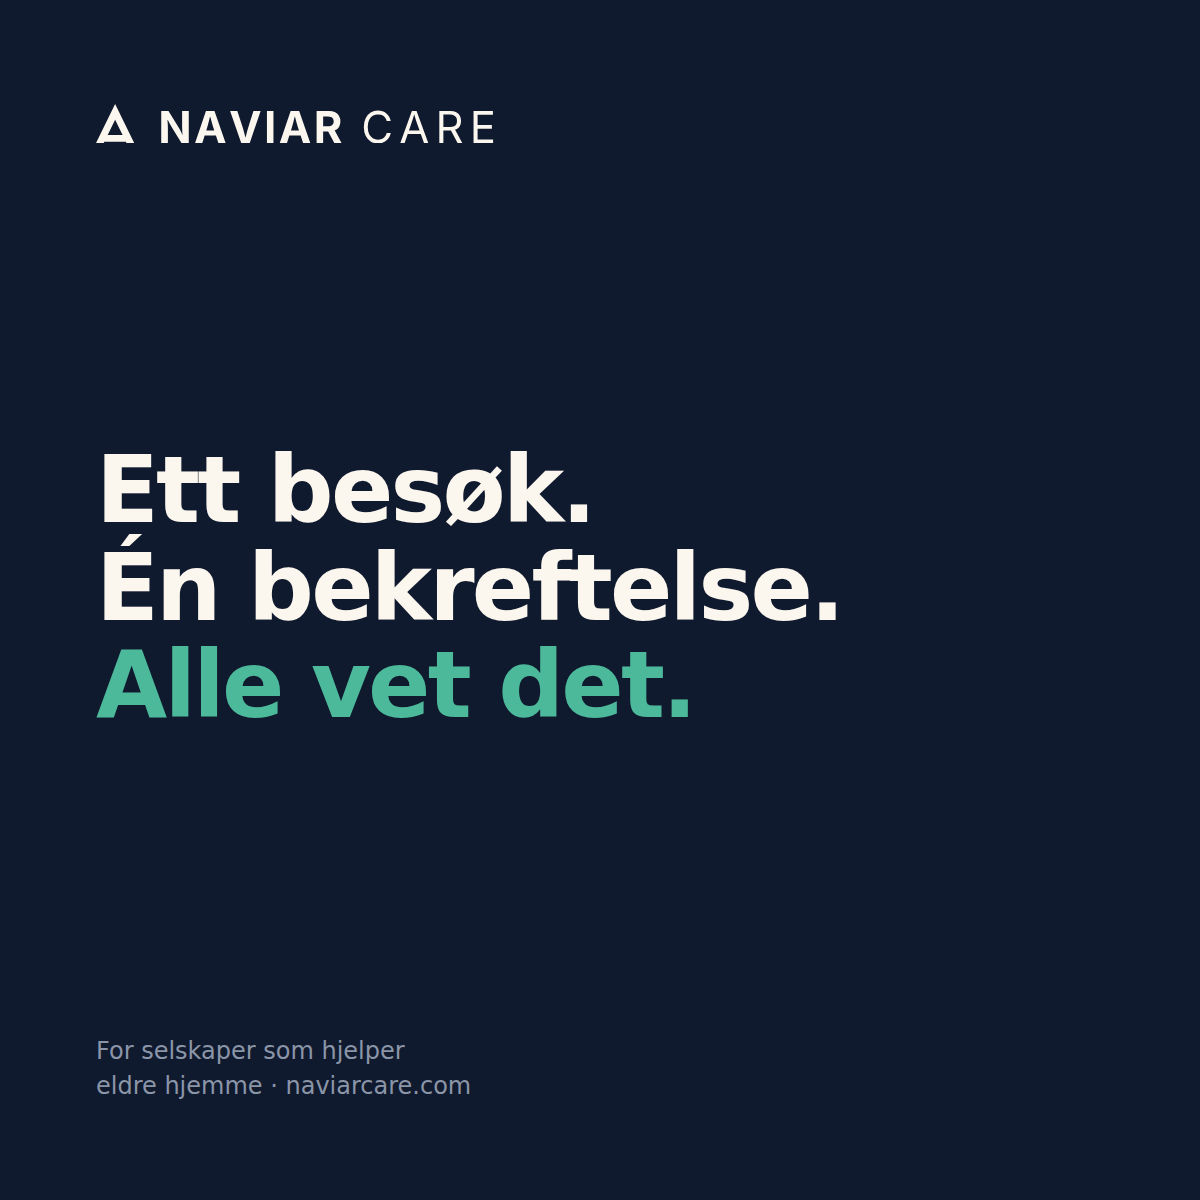
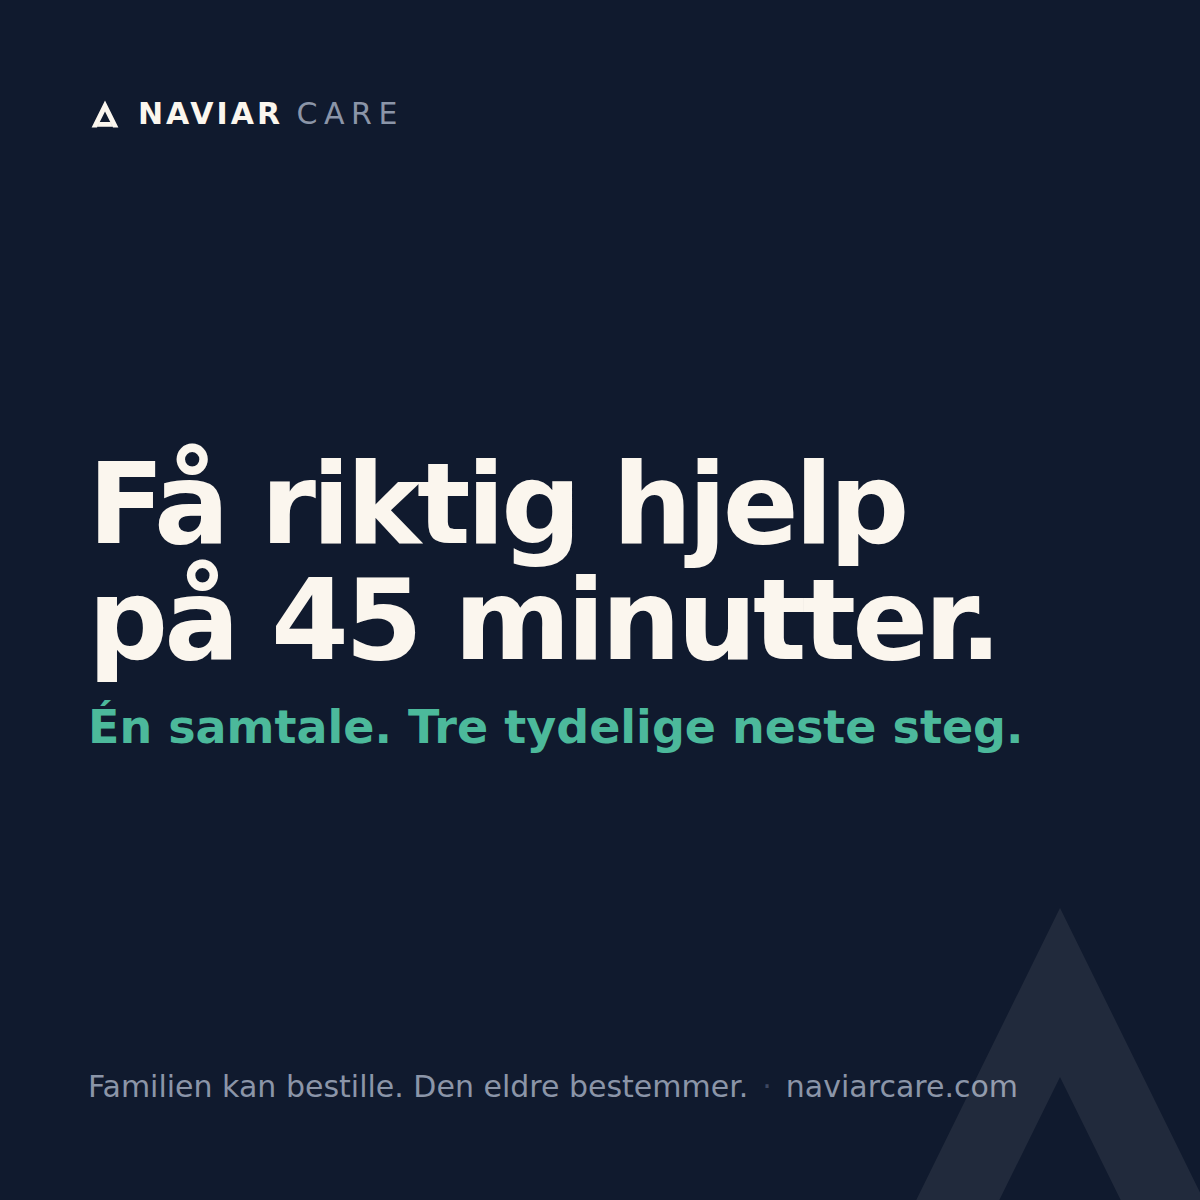
Delingsbilder som ikke kan si noe annet enn produktet
De gamle delingsbildene sa «Ett besøk. Én bekreftelse. Alle vet det.» og
«For selskaper som hjelper eldre hjemme». Begge deler er fra modellen før
denne: den gang solgte vi programvare til tjenesteleverandører. Nå selger
vi Klarhet til familier.

Ingen hadde oppdaget det, og grunnen er verdt å skrive ned: ingen av sidene
hadde og:-merkelapper i det hele tatt. Bildene lå der, men ble aldri
referert. De var døde filer med feil budskap – den kombinasjonen som er
vanskeligst å få øye på.

Nå tegnes de av verktoy/lag-og.js, og ordene hentes fra PP_KLARHET i stedet
for å stå i skriptet. Endres løftet, endres bildet med én kommando.
Nettleser og ikke bildeprogram, av samme grunn som filmen: ekte Inter, og
farger fra de samme tokenene som siden. Skriptet venter på at skrifta er
lastet – uten det settes teksten i en reservefont og ser ut som en annen
merkevare.

To sider har fått merkelappene: forsiden og klarhet.html.

godkjenn.html har dem ikke, og det er et valg. Den lenka sendes på SMS til
én person. Med et delingsbilde ville meldingsappen hentet ned og vist «Vil
du snakke med Kari Hansen?» som forhåndsvisning – navnet på den eldre og
navnet på fagpersonen, til hvem enn som ser skjermen, og til tjenesten som
lager forhåndsvisningen. Et samtykke skal ikke ha en forhåndsvisning. En
test holder den fri for dem.

288 enhetstester, 142 nettlesertester.

diff --git a/verktoy/og.html b/verktoy/og.html
@@ -1,0 +1,85 @@
+<!doctype html>
+<html lang="nb">
+<head>
+<meta charset="utf-8">
+<title>Naviar – delingsbilder</title>
+<link rel="preconnect" href="https://fonts.googleapis.com">
+<link rel="preconnect" href="https://fonts.gstatic.com" crossorigin>
+<link href="https://fonts.googleapis.com/css2?family=Inter:wght@400;500;600;700&display=swap" rel="stylesheet">
+<style>
+  /* Delingsbildene tegnes her og ikke i et bildeprogram, av samme grunn som
+     filmen: teksten skal settes i den ekte Inter, fargene skal komme fra de
+     samme tokenene som siden, og resultatet skal bli likt hver gang.
+
+     Ordene hentes fra PP_KLARHET, ikke skrevet inn her. Et delingsbilde som
+     sier noe annet enn produktet, er det siste noen oppdager – det vises jo
+     bare utenfor sida. */
+  :root{
+    --ink:#101a2e; --sand:#fbf6ee; --brand-pa-mork:#4cb99b; --damp:#8b95a8;
+  }
+  *{box-sizing:border-box;margin:0;padding:0}
+  body{background:#333;font-family:Inter,"Segoe UI",system-ui,sans-serif;
+       -webkit-font-smoothing:antialiased}
+
+  .flate{position:relative;background:var(--ink);color:var(--sand);
+         display:flex;flex-direction:column;justify-content:space-between;
+         overflow:hidden}
+  .flate[data-format="og"]     {width:1200px;height:630px;padding:64px 72px}
+  .flate[data-format="twitter"]{width:1200px;height:675px;padding:70px 72px}
+  .flate[data-format="kvadrat"]{width:1200px;height:1200px;padding:96px 88px}
+
+  .merke{display:flex;align-items:center;gap:16px}
+  .merke svg{color:var(--sand)}
+  .ordmerke{font-size:30px;font-weight:700;letter-spacing:.1em}
+  .ordmerke span{font-weight:400;letter-spacing:.22em;color:var(--damp)}
+
+  .midt{display:flex;flex-direction:column;gap:22px}
+  h1{font-weight:700;letter-spacing:-.035em;line-height:1.04}
+  .flate[data-format="og"] h1     {font-size:86px;max-width:15ch}
+  .flate[data-format="twitter"] h1{font-size:90px;max-width:15ch}
+  .flate[data-format="kvadrat"] h1{font-size:112px;max-width:12ch}
+  .under{color:var(--brand-pa-mork);font-weight:600}
+  .flate[data-format="og"] .under     {font-size:34px}
+  .flate[data-format="twitter"] .under{font-size:36px}
+  .flate[data-format="kvadrat"] .under{font-size:46px}
+
+  .bunn{display:flex;align-items:baseline;gap:14px;color:var(--damp)}
+  .flate[data-format="og"] .bunn     {font-size:22px}
+  .flate[data-format="twitter"] .bunn{font-size:23px}
+  .flate[data-format="kvadrat"] .bunn{font-size:30px}
+  .prikk{color:#3d4761}
+
+  /* Varden i stort format, svakt nedfelt i flata. Den er merket, ikke et
+     dekorelement – derfor samme form som faviconet, bare skalert. */
+  .vakt{position:absolute;right:-90px;bottom:-140px;opacity:.07;
+        color:var(--sand);pointer-events:none}
+  .flate[data-format="kvadrat"] .vakt{right:-120px;bottom:-180px}
+</style>
+</head>
+<body>
+<div id="scene"></div>
+<script>
+var MERKE = '<svg viewBox="0 0 32 32" width="34" height="34" fill="currentColor">' +
+  '<path fill-rule="evenodd" d="M16 3.2 3.4 28.8h5.1L16 13.6l7.5 15.2h5.1L16 3.2ZM11.1 23.6h9.8l2.2 4.4H8.9l2.2-4.4Z"/></svg>';
+var VAKT = '<svg viewBox="0 0 32 32" width="520" height="520" fill="currentColor">' +
+  '<path fill-rule="evenodd" d="M16 3.2 3.4 28.8h5.1L16 13.6l7.5 15.2h5.1L16 3.2ZM11.1 23.6h9.8l2.2 4.4H8.9l2.2-4.4Z"/></svg>';
+
+window.tegn = function (format, tekst) {
+  var t = tekst || {};
+  document.getElementById('scene').innerHTML =
+    '<div class="flate" data-format="' + format + '">' +
+      '<div class="merke">' + MERKE +
+        '<span class="ordmerke">NAVIAR <span>CARE</span></span></div>' +
+      '<div class="midt">' +
+        '<h1>' + t.tittel + '</h1>' +
+        '<p class="under">' + t.under + '</p>' +
+      '</div>' +
+      '<div class="bunn"><span>' + t.bunn + '</span>' +
+        '<span class="prikk">·</span><span>' + t.adresse + '</span></div>' +
+      '<div class="vakt">' + VAKT + '</div>' +
+    '</div>';
+  document.documentElement.dataset.klar = '1';
+};
+</script>
+</body>
+</html>

diff --git a/verktoy/lag-og.js b/verktoy/lag-og.js
@@ -1,0 +1,64 @@
+/* Tegner delingsbildene. Kjøres for hånd:  node verktoy/lag-og.js
+   Playwright hentes fra global sti, som i tests/e2e.test.js – prosjektet har
+   fortsatt ingen avhengigheter i det som sendes til nettleseren.
+
+   Ordene hentes fra PP_KLARHET og PP_MERKESPRAK, ikke skrevet inn her. Et
+   delingsbilde som sier noe annet enn produktet, er det siste noen oppdager:
+   det vises jo bare utenfor sida. Da er det bedre at det ikke kan skje. */
+
+const { chromium } = require('/opt/node22/lib/node_modules/playwright');
+const path = require('path');
+
+global.window = global;
+require('../assets/js/besok-vern.js');
+require('../assets/js/sprak-ui.js');
+require('../assets/js/ekspertbistand.js');
+require('../assets/js/klarhet.js');
+
+const K = global.PP_KLARHET;
+
+/* Adressen står ett sted. Endres domenet, endres det her. */
+const ADRESSE = 'naviarcare.com';
+
+const TEKST = {
+  tittel: K.NAVN.lofte,          // «Få riktig hjelp på 45 minutter.»
+  under: K.NAVN.slagord,         // «Én samtale. Tre tydelige neste steg.»
+  bunn: K.NAVN.altmelding,       // «Familien kan bestille. Den eldre bestemmer.»
+  adresse: ADRESSE
+};
+
+const FORMATER = [
+  { id: 'og',      fil: 'naviar-og.png',         bredde: 1200, hoyde: 630 },
+  { id: 'twitter', fil: 'naviar-twitter.png',    bredde: 1200, hoyde: 675 },
+  { id: 'kvadrat', fil: 'naviar-og-kvadrat.png', bredde: 1200, hoyde: 1200 }
+];
+
+(async () => {
+  const nettleser = await chromium.launch();
+  const side = await nettleser.newPage({ deviceScaleFactor: 1 });
+
+  const feil = [];
+  side.on('pageerror', e => feil.push(e.message));
+
+  await side.goto('file://' + path.resolve(__dirname, 'og.html'),
+                  { waitUntil: 'domcontentloaded' });
+
+  /* Google Fonts må rekke å laste, ellers settes teksten i en reservefont og
+     bildet ser ut som en annen merkevare. Vi venter på skrifta, ikke på tid. */
+  await side.waitForFunction(() => document.fonts.check('700 86px Inter'),
+                             null, { timeout: 20000 });
+
+  for (const f of FORMATER) {
+    await side.setViewportSize({ width: f.bredde, height: f.hoyde });
+    await side.evaluate(([id, tekst]) => window.tegn(id, tekst), [f.id, TEKST]);
+    const mal = path.resolve(__dirname, '../assets/img/', f.fil);
+    await side.locator('.flate').screenshot({ path: mal });
+    console.log(f.fil.padEnd(26), f.bredde + '×' + f.hoyde);
+  }
+
+  if (feil.length) {
+    console.error('Feil under tegning:', feil);
+    process.exitCode = 1;
+  }
+  await nettleser.close();
+})();

diff --git a/tests/e2e.test.js b/tests/e2e.test.js
@@ -1111,6 +1111,60 @@ if (!pw) {
 
   await go.close();
 
+  t.gruppe('Delingsbilder');
+
+  var og = await nySide();
+  await og.goto(BASE + 'klarhet.html', { waitUntil: 'domcontentloaded' });
+  var ogData = await og.evaluate(function () {
+    function m(sel) { var n = document.querySelector(sel); return n ? n.content : null; }
+    return {
+      bilde: m('meta[property="og:image"]'),
+      twitter: m('meta[name="twitter:image"]'),
+      alt: m('meta[property="og:image:alt"]'),
+      kort: m('meta[name="twitter:card"]'),
+      tittel: m('meta[property="og:title"]')
+    };
+  });
+
+  t.test('klarhet.html har delingsbilde med alternativ tekst', function () {
+    t.erSann(/^https:\/\//.test(ogData.bilde), 'må være absolutt: ' + ogData.bilde);
+    t.erSann(/^https:\/\//.test(ogData.twitter));
+    t.erSann(ogData.alt && ogData.alt.length > 20, 'alt-tekst mangler');
+    t.erLik(ogData.kort, 'summary_large_image');
+  });
+
+  /* Bildefilene må finnes. Et og:image som peker på ingenting, vises som en
+     tom flate i meldingsappen – og ingen oppdager det, fordi det bare skjer
+     utenfor sida. */
+  /* fetch og ikke goto: en nettleser som navigerer til en PNG, starter en
+     nedlasting i stedet for a vise den, og testkjoringen stopper. */
+  var ogFiler = await og.evaluate(async function () {
+    var ut = {};
+    for (var f of ['naviar-og.png', 'naviar-twitter.png', 'naviar-og-kvadrat.png']) {
+      try {
+        var r = await fetch('assets/img/' + f, { method: 'HEAD' });
+        ut[f] = r.status;
+      } catch (e) { ut[f] = 0; }
+    }
+    return ut;
+  });
+
+  Object.keys(ogFiler).forEach(function (fil) {
+    t.test(fil + ' finnes', function () { t.erLik(ogFiler[fil], 200); });
+  });
+
+  /* Samtykkeskjermen skal ikke ha forhåndsvisning. Lenka sendes på SMS til én
+     person, og et delingsbilde ville vist navnet hennes til meldingsappen. */
+  await og.goto(BASE + 'godkjenn.html', { waitUntil: 'domcontentloaded' });
+  var utenOg = await og.evaluate(function () {
+    return document.querySelectorAll('meta[property^="og:"], meta[name^="twitter:"]').length;
+  });
+  t.test('samtykkeskjermen har ingen forhåndsvisning', function () {
+    t.erLik(utenOg, 0, 'et samtykke skal ikke ha delingsbilde');
+  });
+
+  await og.close();
+
   t.gruppe('Ingen JavaScript-feil');
   t.test('konsollen er ren på alle sider', function () {
     t.erLik(jsFeil, [], 'feil funnet');

diff --git a/klarhet.html b/klarhet.html
@@ -6,6 +6,23 @@
 <title>Naviar Klarhet – én samtale, tre tydelige neste steg</title>
 <meta name="description" content="Snakk med en verifisert fagperson i 45 minutter og få tre tydelige neste steg. Fast pris 599 kr. Ikke akutt hjelp eller medisinsk rådgivning.">
 <meta name="robots" content="noindex, nofollow">
+<!-- Delingsbilde. Absolutt URL, fordi et delingsbilde hentes av en annen
+     tjeneste enn den som viser sida. -->
+<meta property="og:type" content="website">
+<meta property="og:site_name" content="Naviar Care">
+<meta property="og:locale" content="nb_NO">
+<meta property="og:url" content="https://naviarcare.com/klarhet.html">
+<meta property="og:title" content="Naviar Klarhet – én samtale, tre tydelige neste steg">
+<meta property="og:description" content="Snakk med en verifisert fagperson i 45 minutter og få tre tydelige neste steg. Fast pris 599 kr. Ikke akutt hjelp eller medisinsk rådgivning.">
+<meta property="og:image" content="https://naviarcare.com/assets/img/naviar-og.png">
+<meta property="og:image:width" content="1200">
+<meta property="og:image:height" content="630">
+<meta property="og:image:alt" content="Naviar Care. Få riktig hjelp på 45 minutter. Én samtale, tre tydelige neste steg.">
+<meta name="twitter:card" content="summary_large_image">
+<meta name="twitter:title" content="Naviar Klarhet – én samtale, tre tydelige neste steg">
+<meta name="twitter:description" content="Snakk med en verifisert fagperson i 45 minutter og få tre tydelige neste steg. Fast pris 599 kr. Ikke akutt hjelp eller medisinsk rådgivning.">
+<meta name="twitter:image" content="https://naviarcare.com/assets/img/naviar-twitter.png">
+<meta name="twitter:image:alt" content="Naviar Care. Få riktig hjelp på 45 minutter.">
 <link rel="preconnect" href="https://fonts.googleapis.com">
 <link rel="preconnect" href="https://fonts.gstatic.com" crossorigin>
 <link href="https://fonts.googleapis.com/css2?family=Inter:wght@400;500;600;700&display=swap" rel="stylesheet">

diff --git a/index.html b/index.html
@@ -5,6 +5,23 @@
 <meta name="viewport" content="width=device-width, initial-scale=1">
 <title>Naviar – hjelp i nabolaget for eldre som vil bo hjemme</title>
 <meta name="description" content="Naviar kobler eldre som vil bo hjemme, og familier som bor et annet sted, med verifiserte hjelpere i nabolaget. Be om hjelp, følg oppdraget, eller ta oppdrag selv.">
+<!-- Delingsbilde. Absolutt URL, fordi et delingsbilde hentes av en annen
+     tjeneste enn den som viser sida. -->
+<meta property="og:type" content="website">
+<meta property="og:site_name" content="Naviar Care">
+<meta property="og:locale" content="nb_NO">
+<meta property="og:url" content="https://naviarcare.com/">
+<meta property="og:title" content="Naviar Care">
+<meta property="og:description" content="Trygg hjelp i hverdagen – på den eldres premisser. Praktisk hverdagshjelp og samtaler med erfarne fagfolk.">
+<meta property="og:image" content="https://naviarcare.com/assets/img/naviar-og.png">
+<meta property="og:image:width" content="1200">
+<meta property="og:image:height" content="630">
+<meta property="og:image:alt" content="Naviar Care. Få riktig hjelp på 45 minutter. Én samtale, tre tydelige neste steg.">
+<meta name="twitter:card" content="summary_large_image">
+<meta name="twitter:title" content="Naviar Care">
+<meta name="twitter:description" content="Trygg hjelp i hverdagen – på den eldres premisser. Praktisk hverdagshjelp og samtaler med erfarne fagfolk.">
+<meta name="twitter:image" content="https://naviarcare.com/assets/img/naviar-twitter.png">
+<meta name="twitter:image:alt" content="Naviar Care. Få riktig hjelp på 45 minutter.">
 <link rel="preconnect" href="https://fonts.googleapis.com">
 <link rel="preconnect" href="https://fonts.gstatic.com" crossorigin>
 <link href="https://fonts.googleapis.com/css2?family=Inter:wght@400;500;600;700&display=swap" rel="stylesheet">

diff --git a/godkjenn.html b/godkjenn.html
@@ -6,6 +6,14 @@
 <title>Vil du snakke med Kari Hansen? – Naviar Care</title>
 <meta name="description" content="Familien har funnet en tid. Du bestemmer om den skal bli noe av.">
 <meta name="robots" content="noindex, nofollow">
+<!-- Ingen og:-merkelapper her, og det er et valg.
+
+     Denne lenka sendes på SMS til én person. Får den et delingsbilde, henter
+     meldingsappen det ned og viser «Vil du snakke med Kari Hansen?» som
+     forhåndsvisning – med navnet på den eldre og navnet på fagpersonen, til
+     hvem enn som ser skjermen, og til den tjenesten som lager forhåndsvisningen.
+
+     Et samtykke er ikke noe som skal ha en forhåndsvisning. -->
 <link rel="preconnect" href="https://fonts.googleapis.com">
 <link rel="preconnect" href="https://fonts.gstatic.com" crossorigin>
 <link href="https://fonts.googleapis.com/css2?family=Inter:wght@400;500;600;700&display=swap" rel="stylesheet">

diff --git a/verktoy/LES-MEG.md b/verktoy/LES-MEG.md
@@ -23,3 +23,24 @@ konturene brukes slik.
 
 Endres sporingen eller ordmellomrommet, er det her det gjøres – ikke ved å
 redigere banedata i SVG-filene for hånd.
+
+## Delingsbildene
+
+`lag-og.js` tegner `naviar-og.png`, `naviar-twitter.png` og
+`naviar-og-kvadrat.png` fra `og.html`, med Playwright fra global sti.
+
+```
+node verktoy/lag-og.js
+```
+
+Ordene hentes fra `PP_KLARHET`, ikke skrevet inn i skriptet. Grunnen er at et
+delingsbilde er det siste noen oppdager er feil – det vises jo bare utenfor
+sida. Sier produktet noe annet i morgen, sier bildet det samme etter én
+kommando.
+
+Hvorfor nettleser og ikke et bildeprogram: teksten skal settes i den ekte
+Inter, og fargene skal komme fra de samme tokenene som resten av siden.
+Skriptet venter på at skrifta er lastet før det tegner – uten det ville
+bildet blitt satt i en reservefont og sett ut som en annen merkevare.
+
+`godkjenn.html` har med vilje ingen `og:`-merkelapper. Se merknaden i fila.
